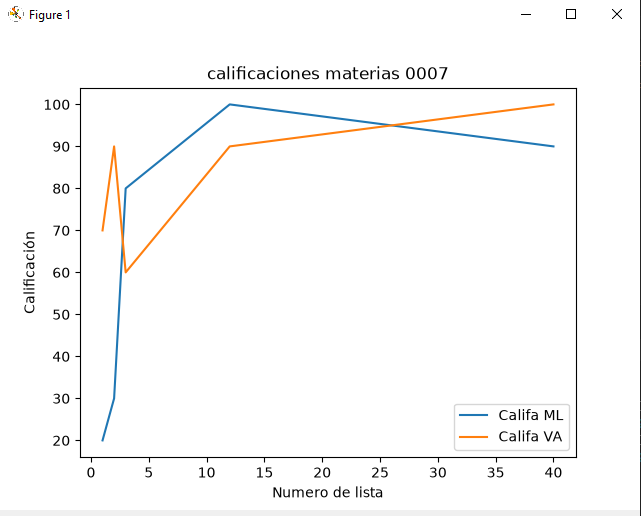
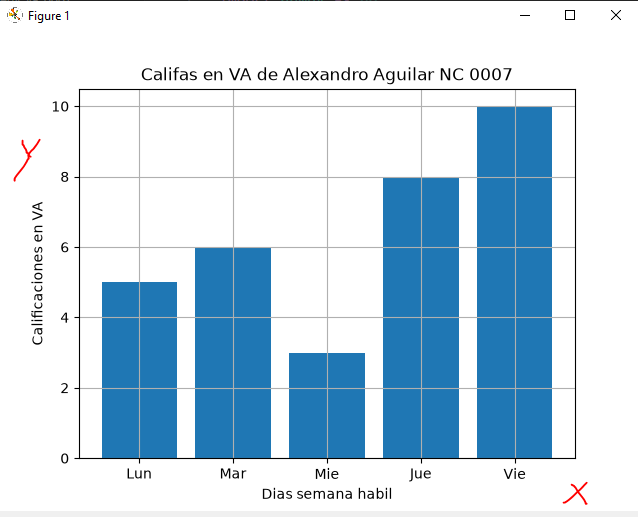
Add files via upload

diff --git a/p8-va-gbarras-0007.py b/p8-va-gbarras-0007.py
@@ -1,0 +1,13 @@
+import numpy as np
+import matplotlib.pyplot as plt
+# Alexandro Aguilar NC 0007
+diasX = ["Lun","Mar", "Mie", "Jue", "Vie"]
+califa_va_y = [5, 6, 3, 8, 10]
+
+plt.bar(diasX,califa_va_y)
+plt.title("Califas en VA de Alexandro Aguilar NC 0007")
+plt.xlabel("Dias semana habil")
+plt.ylabel("Calificaciones en VA")
+plt.grid()
+plt.show()
+print("Alexandro Aguilar NC 0007")

diff --git a/leeme.md b/leeme.md
@@ -1,2 +1,5 @@
-## grafica calificaciones
+## seleccionar el interprete de python
+ctrl + shift + P
+
+## graficas de barras califas por semana en VA 
 ![alt text](image.png)
